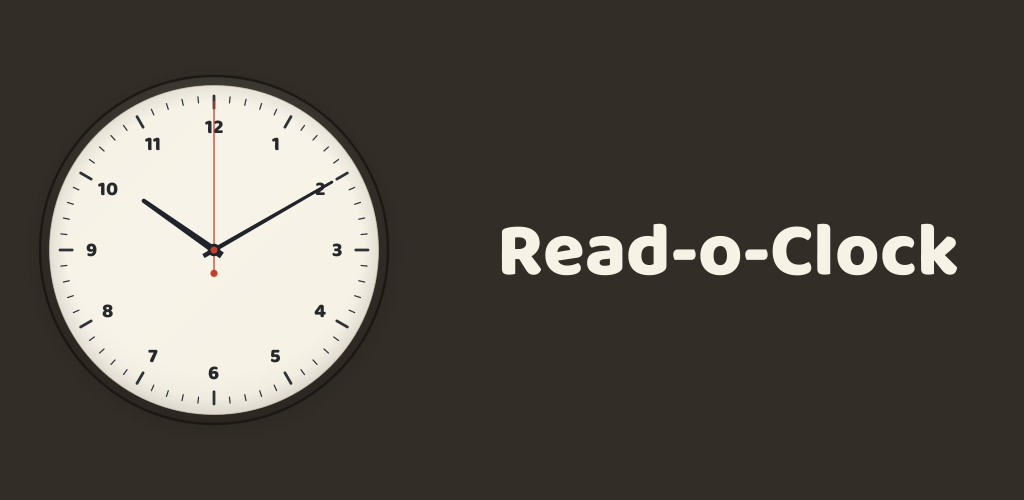
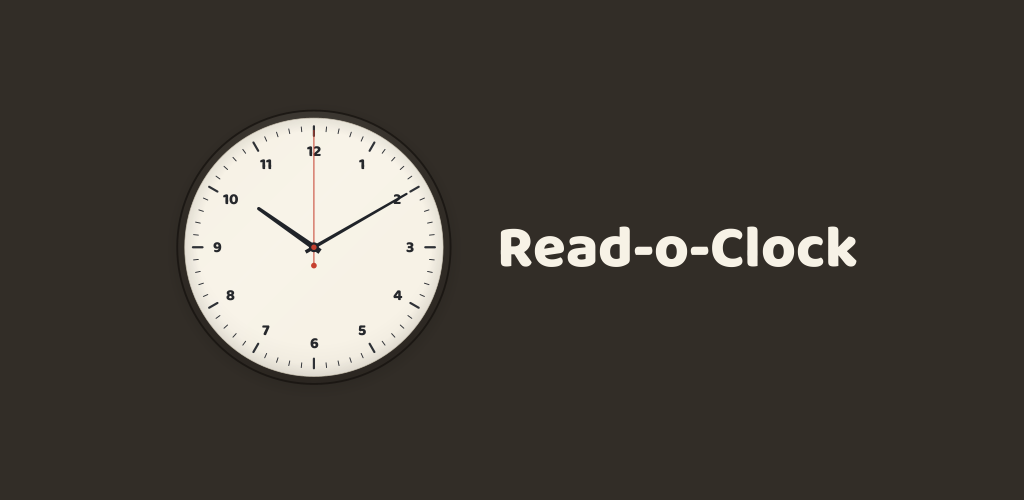
Keep the feature graphic inside Play's cutoff zones

diff --git a/tools/src/main/kotlin/io/github/muntasimulhaque/readoclock/tools/MakeArt.kt b/tools/src/main/kotlin/io/github/muntasimulhaque/readoclock/tools/MakeArt.kt
@@ -10,6 +10,23 @@ import java.awt.image.BufferedImage
 import java.io.File
 import javax.imageio.ImageIO
 
+private const val FeatureWidth = 1024
+private const val FeatureHeight = 500
+
+// Play cuts the outer fifteen percent of a feature graphic in some
+// formats. The case color is the ground and may reach the edges;
+// the clock and the name are key content, so they are laid out to
+// stay inside the middle seventy percent, with this much air.
+private const val FeatureCutoff = 0.15
+private const val FeatureMargin = 12.0
+
+// The composition before it is scaled to fit the safe area.
+private const val BaseClockCenterX = 214.0
+private const val BaseCaseRadius = 174.0
+private const val BaseNameSize = 76f
+private const val BaseGap = 64.0
+private const val StoreName = "Read-o-Clock"
+
 /**
  * The store art: the feature graphic and the 512 listing icon, drawn from the
  * same dial, the same mark and the same palette the app shows, so the banner,
@@ -28,40 +45,94 @@ fun main(args: Array<String>) {
 }
 
 private fun writeFeatureGraphic(file: File, numeralFont: Font) {
-    val width = 1024
-    val height = 500
-    val image = BufferedImage(width, height, BufferedImage.TYPE_INT_RGB)
+    val image = BufferedImage(FeatureWidth, FeatureHeight, BufferedImage.TYPE_INT_RGB)
     val g = image.createGraphics()
     hints(g)
 
-    // The case color is the ground, so the banner and the launcher tile are
-    // the same object.
+    // The case color is the ground, so the banner and the launcher
+    // tile are the same object.
     g.color = Color(DialPalette.caseFill.toInt())
-    g.fillRect(0, 0, width, height)
+    g.fillRect(0, 0, FeatureWidth, FeatureHeight)
 
-    // The dial on the left, exactly as the app hangs it: a real dial at
-    // 10:10 with the second hand settled on its twelve.
+    val layout = featureGraphicLayout(g, numeralFont)
     DialRenderer.drawClock(
         g,
-        centerX = 214.0,
-        centerY = height / 2.0,
-        caseRadius = 174.0,
+        centerX = layout.clockCenterX,
+        centerY = layout.clockCenterY,
+        caseRadius = layout.caseRadius,
         skin = Skins.all.first(),
         secondsOfDay = 10 * 3600.0 + 10 * 60.0 + 0.5,
         numeralFont = numeralFont,
     )
-
-    // The name on the right, in the dial's own cream, nothing behind it.
-    val nameFont = numeralFont.deriveFont(Font.PLAIN, 76f)
-    val layout = TextLayout("Read-o-Clock", nameFont, g.fontRenderContext)
-    val bounds = layout.bounds
-    g.color = Color(DialPalette.dial.toInt())
-    val x = width - 72.0 - bounds.width
-    val baseline = height / 2.0 - (bounds.y + bounds.height / 2.0)
-    layout.draw(g, x.toFloat(), baseline.toFloat())
+    drawName(g, layout)
 
     g.dispose()
     ImageIO.write(image, "png", file)
+}
+
+private data class FeatureGraphicLayout(
+    val clockCenterX: Double,
+    val clockCenterY: Double,
+    val caseRadius: Double,
+    val nameFont: Font,
+    val nameX: Double,
+    val nameBaseline: Double,
+)
+
+private fun featureGraphicLayout(g: Graphics2D, numeralFont: Font): FeatureGraphicLayout {
+    val baseClockY = FeatureHeight / 2.0
+    val baseName = nameLayout(numeralFont, BaseNameSize, g)
+    val baseNameX = BaseClockCenterX + BaseCaseRadius + BaseGap - baseName.bounds.x
+    val baseNameBaseline = baseClockY - (baseName.bounds.y + baseName.bounds.height / 2.0)
+
+    // The composition's outer bounds, the shade included, before it
+    // is scaled. The clock is a real dial at 10:10 with the second
+    // hand settled on its twelve; the name sits in the dial's cream.
+    val baseLeft = BaseClockCenterX - BaseCaseRadius * DialRenderer.ShadeReach
+    val baseRight = baseNameX + baseName.bounds.x + baseName.bounds.width
+    val baseTop = baseClockY + BaseCaseRadius * DialRenderer.ShadeDrop - BaseCaseRadius * DialRenderer.ShadeReach
+    val baseBottom = baseClockY + BaseCaseRadius * DialRenderer.ShadeDrop + BaseCaseRadius * DialRenderer.ShadeReach
+
+    val scale = featureGraphicScale(baseLeft, baseRight, baseTop, baseBottom)
+    val centerX = FeatureWidth / 2.0
+    val centerY = FeatureHeight / 2.0
+    val baseCenterX = (baseLeft + baseRight) / 2.0
+    val baseCenterY = (baseTop + baseBottom) / 2.0
+    fun x(base: Double) = centerX + (base - baseCenterX) * scale
+    fun y(base: Double) = centerY + (base - baseCenterY) * scale
+
+    return FeatureGraphicLayout(
+        clockCenterX = x(BaseClockCenterX),
+        clockCenterY = y(baseClockY),
+        caseRadius = BaseCaseRadius * scale,
+        nameFont = numeralFont.deriveFont(Font.PLAIN, (BaseNameSize * scale).toFloat()),
+        nameX = x(baseNameX),
+        nameBaseline = y(baseNameBaseline),
+    )
+}
+
+private fun featureGraphicScale(
+    baseLeft: Double,
+    baseRight: Double,
+    baseTop: Double,
+    baseBottom: Double,
+): Double {
+    val safeWidth = FeatureWidth * (1.0 - 2.0 * FeatureCutoff) - 2.0 * FeatureMargin
+    val safeHeight = FeatureHeight * (1.0 - 2.0 * FeatureCutoff) - 2.0 * FeatureMargin
+    return minOf(
+        safeWidth / (baseRight - baseLeft),
+        safeHeight / (baseBottom - baseTop),
+    )
+}
+
+private fun nameLayout(numeralFont: Font, size: Float, g: Graphics2D): TextLayout {
+    return TextLayout(StoreName, numeralFont.deriveFont(Font.PLAIN, size), g.fontRenderContext)
+}
+
+private fun drawName(g: Graphics2D, layout: FeatureGraphicLayout) {
+    val name = TextLayout(StoreName, layout.nameFont, g.fontRenderContext)
+    g.color = Color(DialPalette.dial.toInt())
+    name.draw(g, layout.nameX.toFloat(), layout.nameBaseline.toFloat())
 }
 
 private fun writePlayIcon(file: File) {

diff --git a/tools/src/main/kotlin/io/github/muntasimulhaque/readoclock/tools/DialRenderer.kt b/tools/src/main/kotlin/io/github/muntasimulhaque/readoclock/tools/DialRenderer.kt
@@ -27,6 +27,14 @@ import kotlin.math.sin
  */
 object DialRenderer {
 
+    // The shade the app draws behind the case: how far it reaches
+    // from the case center, as a multiple of the case radius, and
+    // how far below the center its middle sits. The store art reads
+    // these numbers when it lays its composition out, so the shade
+    // can never reach a cutoff zone by accident.
+    const val ShadeReach = 1.085
+    const val ShadeDrop = 0.02
+
     fun drawClock(
         g: Graphics2D,
         centerX: Double,
@@ -49,11 +57,11 @@ object DialRenderer {
         // subtle pool of shade behind the case on every side, a touch
         // heavier below, never a crescent under the rim. Flat at 22/255
         // out to 0.90 of its reach, where it is still hidden behind the
-        // case, then one soft ramp to nothing at 1.105 r: on a short
+        // case, then one soft ramp to nothing at its edge. On a short
         // window the case nearly touches the screen and a hard clip would
         // show at the edge.
-        val shadeCenter = Point2D.Double(cx, cy + r * 0.02)
-        val shadeRadius = r * 1.085
+        val shadeCenter = Point2D.Double(cx, cy + r * ShadeDrop)
+        val shadeRadius = r * ShadeReach
         g.paint = RadialGradientPaint(
             shadeCenter,
             shadeRadius.toFloat(),

diff --git a/docs/decisions.md b/docs/decisions.md
@@ -293,3 +293,32 @@ first build of the candidate still carried the pool below, and submitted
 shade behind the case never shipped in 0.6, so it carries the 0.7
 release candidate (versionCode 7), which the owner submitted for Play
 review the same day.
+
+## D-014: The feature graphic, inside Play's cutoff zones
+
+Date: 5 October 2026, after the 0.7 submission.
+
+The feature graphic came back from the store with its name cut. Play
+renders the required 1024 by 500 asset in narrower formats, including a
+16:9 center crop, and its own cutoff diagram puts key content in the
+outer fifteen percent at risk. The old banner was laid out for the full
+canvas: the shade began at x=32 and the name ended at x=957, so the
+last letter sat on the 16:9 crop line at x=956 and the clock's left
+shade was already gone.
+
+The banner is now composed in a base layout, then scaled and centered
+to fit Play's middle seventy percent with twelve pixels of air. The case
+color still fills the whole canvas, because the ground is a background
+and may reach the edges; the clock, its shade and the name all stay
+inside the safe box. `DialRenderer` now names the shade's reach and
+drop, and `MakeArt` reads those numbers, so the shade cannot push the
+composition into a cutoff zone by accident. The regenerated graphic
+measures x=176 to x=856 and y=109 to y=384 for visible ink, which
+leaves fourteen to forty one pixels inside the middle seventy percent
+and more than a hundred pixels inside the 16:9 crop.
+
+Rejected: moving only the name left, which still left the clock's shade
+in the left cutoff; and keeping the edge to edge layout because the
+asset is already the required size, which confuses the upload size with
+the safe area. The owner re-uploads the regenerated graphic in the
+listing; no app code, no behavior and no version moved.

diff --git a/play-store/play-store-submission-guide.md b/play-store/play-store-submission-guide.md
@@ -24,7 +24,12 @@ hand. The launcher icon set comes from `:tools:makeIcons` and is pinned by
 
 - `play-store/feature-graphic-1024x500.png`: the case color as the ground,
   a real dial at 10:10 on the left, and the name in the dial's own cream on
-  the right, nothing behind it.
+  the right, nothing behind it. The clock, its shade and the name sit inside
+  Play's middle seventy percent, because Play cuts the outer fifteen percent
+  in some formats; only the ground reaches the edges. This is the 5 October
+  2026 graphic (docs/decisions.md D-014): the 0.7 submission carried the
+  cut banner, so upload this file in the listing without waiting for a new
+  release.
 - `play-store/play-icon-512.png`: the launcher mark, full bleed, no
   pre-rounded corners. The 0.2 mark is 0.8 of the 0.1 mark; re-upload
   this 512 icon with the 0.2 submission.

diff --git a/AGENTS.md b/AGENTS.md
@@ -219,6 +219,10 @@ from `docs/privacy.html` by GitHub Pages.
 - A tick that is one sample repeated once a second is heard as a loop
   inside a minute. Four variants of one movement, rotated by
   `TickRotation`, are what keeps a synthesized clock's tick honest.
+- Play cuts a feature graphic's outer fifteen percent in some formats. A
+  1024x500 banner laid out edge to edge loses its name and its clock; only
+  the ground may reach the edges, and key content belongs inside the middle
+  seventy percent.
 
 ## Map
 
